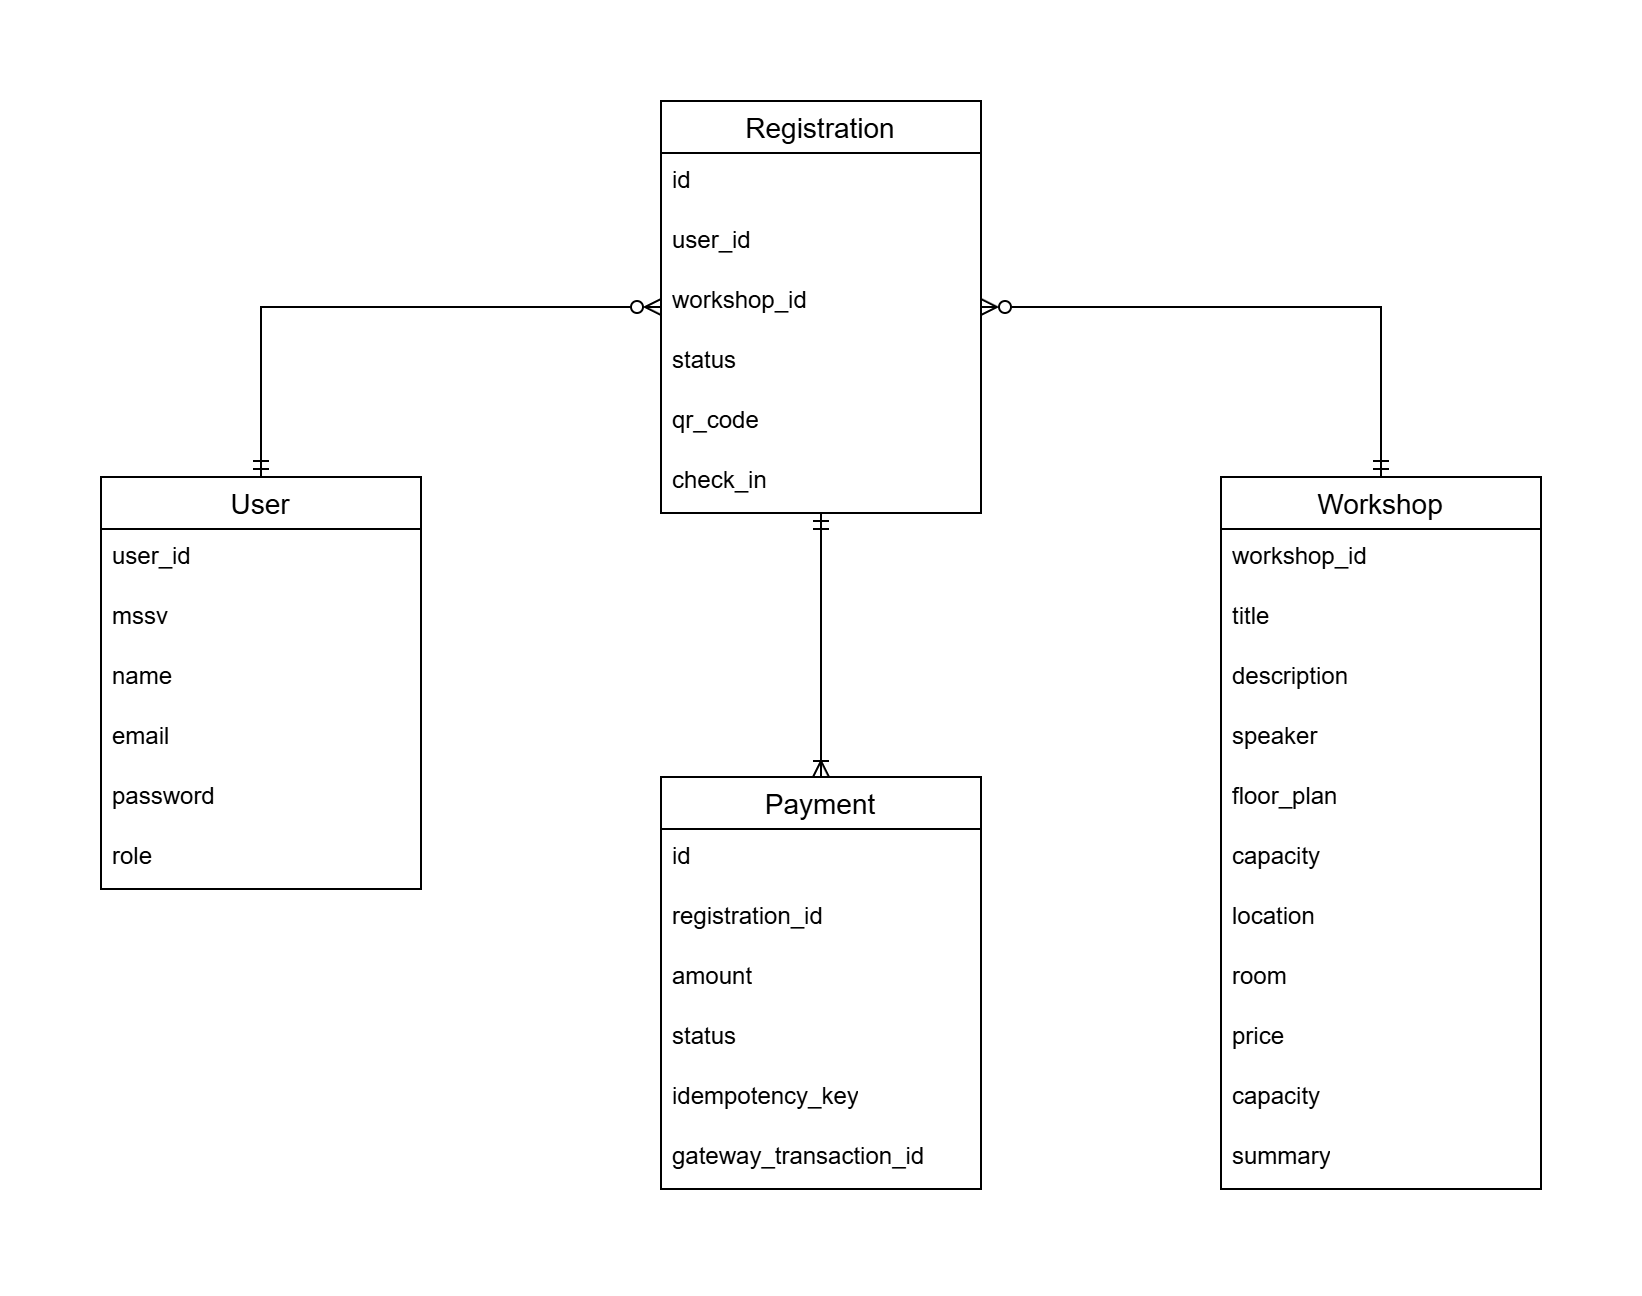
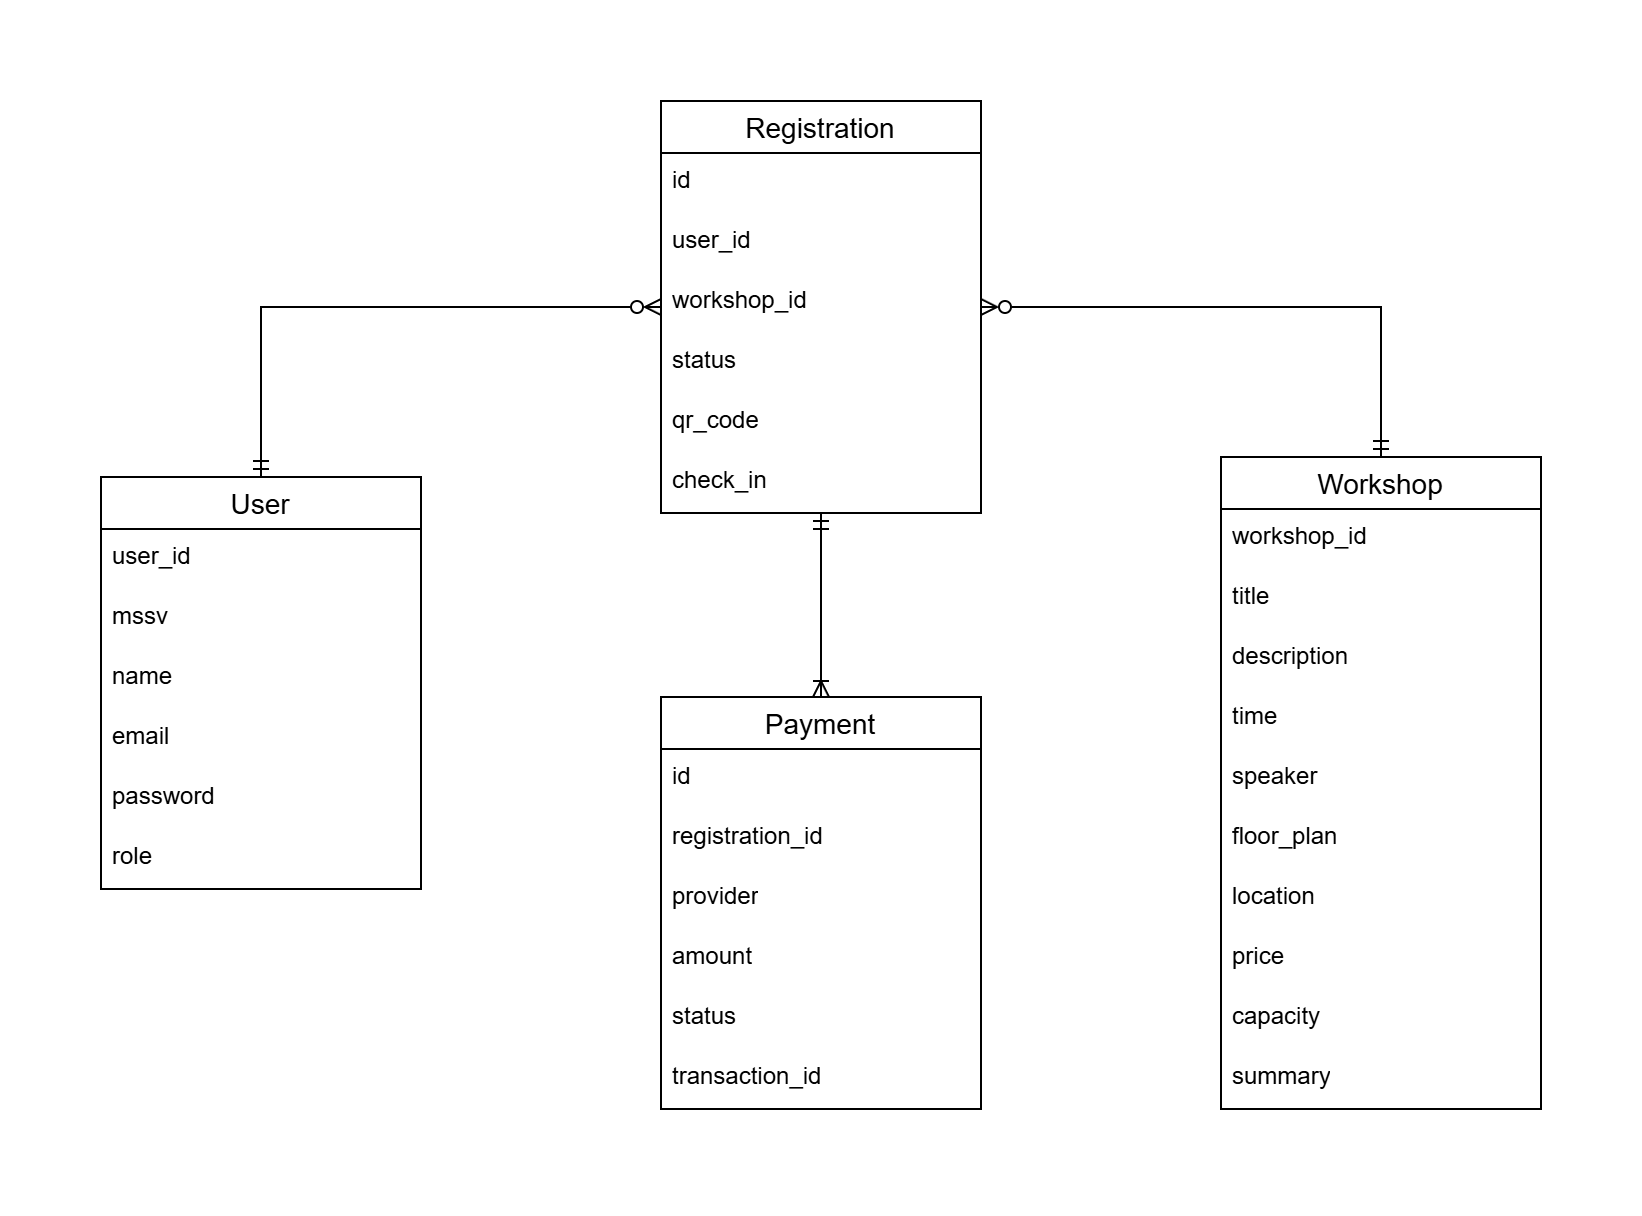
change stack

diff --git a/blueprint/design.md b/blueprint/design.md
@@ -67,18 +67,69 @@ Hệ thống UniHub Workshop áp dụng các mô hình giao tiếp và cơ chế
 - **Lý do:** Hệ thống yêu cầu tính toàn vẹn dữ liệu cao (ACID) đối với giao dịch thanh toán và đặc biệt là việc đăng ký slot (sử dụng row-level locking). 
 
 **Schema cơ bản (ERD):**
-- `Users`: id, email, role (student, admin, staff), ...
-- `Workshops`: id, title, description, ai_summary, capacity, location, price, start_time, ...
-- `Registrations`: id, user_id, workshop_id, status (pending, paid, cancelled, checked_in), qr_code, ...
-- `Payments`: id, registration_id, amount, status, idempotency_key, gateway_transaction_id.
+![UniHub ERD](../UniHub_Schema.png)
 
 ## Thiết kế kiểm soát truy cập
-- **Mô hình:** RBAC (Role-Based Access Control) kết hợp với JWT Token.
-- **Quyền hạn:**
-  - `Student`: Read Workshops, Create Registration, Read own Registration/Payment.
-  - `Admin`: Full CRUD Workshops, Read all Registrations.
-  - `Staff`: Update Registration status (Check-in).
-- **Kiểm tra quyền:** Middleware `RolesGuard` ở tầng API Gateway sẽ decode JWT, lấy thuộc tính `role` và so sánh với metadata yêu cầu của endpoint.
+## 1. Mô hình lựa chọn
+Hệ thống sử dụng mô hình **Static RBAC (Role-Based Access Control tĩnh)** kết hợp với **JWT (JSON Web Token)**.
+
+**Lý do lựa chọn:**
+- Hệ thống có số lượng nhóm người dùng cố định (3 nhóm) với nghiệp vụ phân tách rõ ràng. Việc sử dụng RBAC tĩnh (lưu trực tiếp cột `role` trong bảng `Users`) giúp tối ưu cấu trúc cơ sở dữ liệu (không cần join bảng) và dễ triển khai.
+- Phân quyền bằng JWT giúp hệ thống tuân thủ kiến trúc Stateless (không lưu trạng thái), hỗ trợ cực tốt cho khả năng chịu tải cao (Scale out).
+
+---
+
+## 2. Nhóm người dùng (Roles) & Quyền hạn (Permissions)
+
+Dưới đây là ma trận phân quyền chi tiết cho 3 nhóm người dùng:
+
+| Tên Role | Đối tượng | Quyền hạn (Permissions) |
+| :--- | :--- | :--- |
+| **`STUDENT`** | Sinh viên | - Xem danh sách và chi tiết các Workshop đang mở.<br>- Tạo mới lượt đăng ký và thanh toán.<br>- Xem lịch sử cá nhân và lấy Mã QR check-in. |
+| **`ADMIN`** | Ban tổ chức | - Toàn quyền (CRUD) quản lý Workshop: Tạo, sửa, đổi phòng, hủy sự kiện, upload PDF cho AI tóm tắt.<br>- Xem danh sách toàn bộ sinh viên đăng ký của các Workshop.<br>- Xem bảng điều khiển (Dashboard) thống kê. |
+| **`STAFF`** | Nhân sự Check-in | - Quét mã QR của Sinh viên để cập nhật trạng thái `checked_in_at`.<br>- Xem thông tin cơ bản của Workshop mình trực. |
+
+---
+
+## 3. Cơ chế kiểm tra quyền tại các điểm truy cập
+
+Hệ thống tuân thủ nguyên tắc "Bảo vệ nhiều lớp" (Defense in Depth).
+
+### 3.1. Tại Backend (API Endpoints) - Lớp bảo vệ lõi
+Tất cả các API (ngoại trừ API lấy danh sách Workshop cho trang chủ) đều được bảo vệ nghiêm ngặt.
+- **Cơ chế hoạt động:** 
+  1. Khi người dùng đăng nhập thành công, nhận được JWT Token. Payload của token chứa `userId` và `role`.
+  2. Khi gọi API (ví dụ: `POST /workshops`), **Auth Middleware** kiểm tra tính hợp lệ của token (chưa hết hạn, đúng chữ ký).
+  3. Tiếp đó, **Role Guard** đọc `role` từ token và đối chiếu với mảng Role được cấu hình cho API đó.
+  4. Nếu không khớp (VD: Student cố tình gọi API tạo Workshop), trả về lỗi `403 Forbidden`.
+  5. Nếu token hết hạn, trả về `401 Unauthorized`.
+
+### 3.2. Tại Web App (Trang Sinh viên & Trang Admin)
+- **Bảo vệ Route (Route Guards):** 
+  - Giao diện bóc tách JWT để biết Role.
+  - Các đường dẫn nội bộ của Ban tổ chức (như `/admin/workshops`) được bọc bởi `PrivateRoute`.
+  - Nếu user có role `STUDENT` cố tình gõ URL `/admin`, Frontend sẽ chuyển hướng (redirect) ngay lập tức về Trang chủ.
+- **Ẩn/hiện UI (Conditional Rendering):** 
+  - Giao diện tự động thích ứng dựa trên role. Ví dụ: Nút "Tạo Workshop mới" sẽ không xuất hiện trong mã HTML đối với Sinh viên.
+
+### 3.3. Tại Mobile App (App Check-in dành cho Staff)
+- **Phân luồng màn hình (Screen Flow):** 
+  - Khi Staff mở app và đăng nhập thành công, ứng dụng đọc JWT và nhận diện role `STAFF`.
+  - Thay vì hiển thị Dashboard hay Menu rườm rà, app điều hướng trực tiếp vào màn hình **Máy quét Camera QR (Scanner Screen)**. 
+- **Chặn tính năng thừa:** Chặn Staff truy cập vào luồng đăng ký vé.
+- **Xác thực Offline:** 
+  - Khi có mạng, app lưu trữ Token một cách an toàn (Secure Storage). 
+  - Trong trường hợp mất kết nối mạng ở khu vực cửa phòng, app vẫn đọc Token nội bộ này để xác nhận Staff đang trong phiên hợp lệ và cho phép lưu tạm các giao dịch quét QR (Offline Sync Queue).
+
+---
+
+## 4. Ràng buộc & Tiêu chí chấp nhận
+- **Bảo mật:** JWT Token phải có thời hạn ngắn (ví dụ: 1 giờ) kết hợp với Refresh Token (lưu ở HTTP-only cookie hoặc Redis) để chống bị đánh cắp.
+- **Mặc định đóng:** Role Guard phải được kích hoạt làm mặc định (Default Guard) trên toàn bộ hệ thống API nội bộ để tránh việc sơ suất quên gắn decorator bảo vệ khi code API mới.
+- **Chấp nhận:** Sinh viên chỉ thao tác được dữ liệu của mình; Nhân sự chỉ quét được QR; Admin toàn quyền vận hành.
+
+## 5. Sơ đồ thiết kế
+![RBAC Diagram](../RBAC.png)
 
 ## Thiết kế các cơ chế bảo vệ hệ thống
 

diff --git a/implementation_plan.md b/implementation_plan.md
@@ -6,7 +6,7 @@ Mục tiêu của kế hoạch này là xây dựng hệ thống **UniHub Worksh
 
 > [!IMPORTANT]
 > **Đề xuất Technology Stack:** 
-> - **Backend:** Node.js (NestJS hoặc Express) kết hợp TypeScript. Lý do: Xử lý I/O non-blocking tốt, phù hợp cho bài toán nhiều connection đồng thời.
+> - **Backend:** Node.js (NestJS hoặc Express) kết hợp Javascript.
 > - **Database:** PostgreSQL (đảm bảo tính toàn vẹn dữ liệu cho giao dịch/chỗ ngồi) + Redis (dùng cho Caching, Rate Limiting, Idempotency, Job Queue).
 > - **Frontend Web:** React hoặc Next.js.
 > - **Mobile App:** React Native hoặc Flutter (hỗ trợ tốt cross-platform và lưu trữ offline).